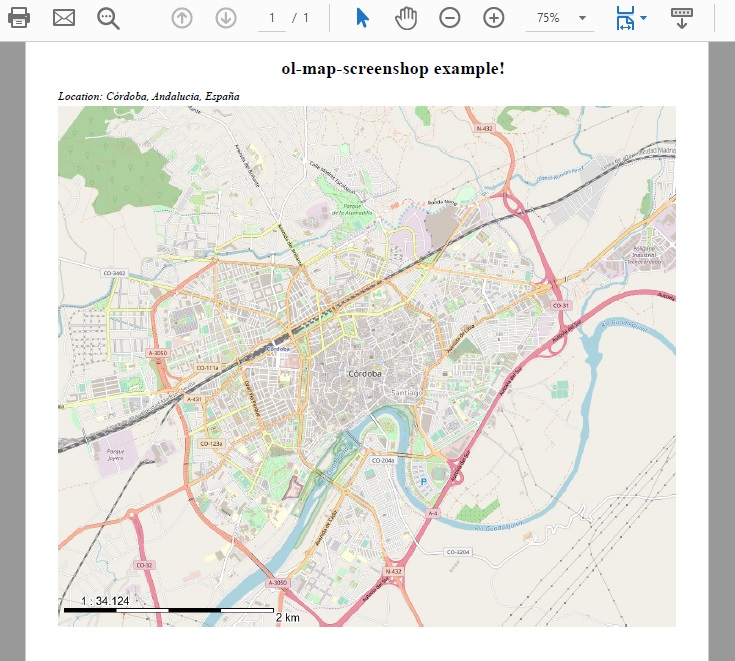
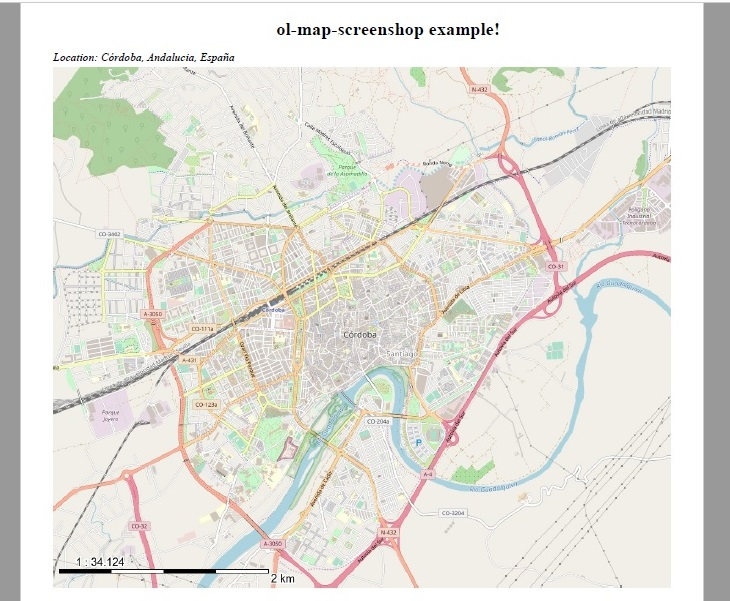
Remove required dim parameter

diff --git a/example/dist/example.22782844.js b/example/dist/example.22782844.js
@@ -412,11 +412,11 @@ var t,i=arguments[3];!function(i,n){"object"==typeof exports&&"undefined"!=typeo
 },{"./TileImage.js":"rQ5G","../tilegrid.js":"gNrJ"}],"hU9v":[function(require,module,exports) {
 "use strict";Object.defineProperty(exports,"__esModule",{value:!0}),exports.default=exports.ATTRIBUTION=void 0;var t=o(require("./XYZ.js"));function o(t){return t&&t.__esModule?t:{default:t}}var r=function(){var t=function(o,r){return(t=Object.setPrototypeOf||{__proto__:[]}instanceof Array&&function(t,o){t.__proto__=o}||function(t,o){for(var r in o)o.hasOwnProperty(r)&&(t[r]=o[r])})(o,r)};return function(o,r){function e(){this.constructor=o}t(o,r),o.prototype=null===r?Object.create(r):(e.prototype=r.prototype,new e)}}(),e='&#169; <a href="https://www.openstreetmap.org/copyright" target="_blank">OpenStreetMap</a> contributors.';exports.ATTRIBUTION=e;var n=function(t){function o(o){var r,n=o||{};r=void 0!==n.attributions?n.attributions:[e];var i=void 0!==n.crossOrigin?n.crossOrigin:"anonymous",a=void 0!==n.url?n.url:"https://{a-c}.tile.openstreetmap.org/{z}/{x}/{y}.png";return t.call(this,{attributions:r,cacheSize:n.cacheSize,crossOrigin:i,opaque:void 0===n.opaque||n.opaque,maxZoom:void 0!==n.maxZoom?n.maxZoom:19,reprojectionErrorThreshold:n.reprojectionErrorThreshold,tileLoadFunction:n.tileLoadFunction,url:a,wrapX:n.wrapX,attributionsCollapsible:!1})||this}return r(o,t),o}(t.default),i=n;exports.default=i;
 },{"./XYZ.js":"DGMa"}],"mvXz":[function(require,module,exports) {
-"use strict";Object.defineProperty(exports,"__esModule",{value:!0}),exports.default=void 0;var e=require("ol/control");const t="scale-line",a="scale-bar";class l{getImage(e){const t=e.map,a=document.createElement("canvas");a.width=e.widthPixel,a.height=e.heightPixel;const l=a.getContext("2d");Array.prototype.forEach.call(document.querySelectorAll(".ol-layer canvas"),e=>{if(e.width>0){const t=e.parentNode.style.opacity;l.globalAlpha=""===t?1:Number(t);const a=e.style.transform.match(/^matrix\(([^\(]*)\)$/)[1].split(",").map(Number);CanvasRenderingContext2D.prototype.setTransform.apply(l,a),l.drawImage(e,0,0)}});const r=this.createScaleMap(t,l,a,e.dinWidth,e.showDisplayScale);return{img:a.toDataURL(e.format),scaleBarValue:r.scaleBarValue,scaleLineValue:r.scaleLineValue}}addScaletoCanvas(e,t,a,l,r){const n="1 : "+l,i=2*parseInt(a,10);e.beginPath(),e.textAlign="left",e.strokeStyle="#ffffff",e.fillStyle="#000000",e.lineWidth=5,e.font="20px Arial",e.strokeText(n,40,t.height-30-10),e.fillText(n,40,t.height-30-10);var o=i+10,s=t.height-30,c=10+1*i/4,d=c+1*i/4,h=d+1*i/4,f=h+1*i/4;e.beginPath(),e.lineWidth=8,e.strokeStyle="#000000",e.fillStyle="#ffffff",e.moveTo(10,s),e.lineTo(o+1,s),e.stroke(),this.drawScaleBar(e,6,"#000000",10,s,c,s),this.drawScaleBar(e,6,"#FFFFFF",c,s,d,s),this.drawScaleBar(e,6,"#000000",d,s,h,s),this.drawScaleBar(e,6,"#FFFFFF",h,s,f,s),e.beginPath(),e.textAlign="left",e.strokeStyle="#ffffff",e.fillStyle="#000000",e.lineWidth=5,e.font="20px Arial",e.strokeText(r,f+5,s+20),e.fillText(r,f+5,s+20)}drawScaleBar(e,t,a,l,r,n,i){e.beginPath(),e.lineWidth=t,e.strokeStyle=a,e.moveTo(l,r),e.lineTo(n,i),e.stroke()}createScaleMap(e,l,r,n,i){this.createScaleContainer(),this._scaleLine=this.getScaleControl(!1,t),this._scaleBar=this.getScaleControl(!0,a),e.addControl(this._scaleLine),e.addControl(this._scaleBar),e.renderSync();const o=Math.round(this._scaleBar.getScaleForResolution()).toLocaleString(),s=document.getElementsByClassName("ol-scale-line-inner")[0].innerHTML;return i&&this.addScaletoCanvas(l,r,n,o,s),{scaleBarValue:o,scaleLineValue:s}}createScaleContainer(){const e=document.createElement("div");e.style.display="none";const l=document.createElement("div");l.setAttribute("id",a);const r=document.createElement("div");r.setAttribute("id",t),e.appendChild(l),e.appendChild(r),document.body.appendChild(e)}getScaleControl(t,a){return new e.ScaleLine({units:"metric",bar:t,steps:4,text:!0,minWidth:140,target:a})}}var r=new l;exports.default=r;
+"use strict";Object.defineProperty(exports,"__esModule",{value:!0}),exports.default=void 0;var e=require("ol/control");const t="scale-line",a="scale-bar";class l{getImage(e){const t=e.map,a=document.createElement("canvas");a.width=e.widthPixel,a.height=e.heightPixel;const l=a.getContext("2d");Array.prototype.forEach.call(document.querySelectorAll(".ol-layer canvas"),e=>{if(e.width>0){const t=e.parentNode.style.opacity;l.globalAlpha=""===t?1:Number(t);const a=e.style.transform.match(/^matrix\(([^\(]*)\)$/)[1].split(",").map(Number);CanvasRenderingContext2D.prototype.setTransform.apply(l,a),l.drawImage(e,0,0)}});const r=this.createScaleMap(t,l,a,e.scaleBarLength,e.showDisplayScale);return{img:a.toDataURL(e.format),scaleBarValue:r.scaleBarValue,scaleLineValue:r.scaleLineValue}}addScaletoCanvas(e,t,a,l,r){const n="1 : "+l,i=2*parseInt(a,10);e.beginPath(),e.textAlign="left",e.strokeStyle="#ffffff",e.fillStyle="#000000",e.lineWidth=5,e.font="20px Arial",e.strokeText(n,40,t.height-30-10),e.fillText(n,40,t.height-30-10);var o=i+10,s=t.height-30,c=10+1*i/4,d=c+1*i/4,h=d+1*i/4,f=h+1*i/4;e.beginPath(),e.lineWidth=8,e.strokeStyle="#000000",e.fillStyle="#ffffff",e.moveTo(10,s),e.lineTo(o+1,s),e.stroke(),this.drawScaleBar(e,6,"#000000",10,s,c,s),this.drawScaleBar(e,6,"#FFFFFF",c,s,d,s),this.drawScaleBar(e,6,"#000000",d,s,h,s),this.drawScaleBar(e,6,"#FFFFFF",h,s,f,s),e.beginPath(),e.textAlign="left",e.strokeStyle="#ffffff",e.fillStyle="#000000",e.lineWidth=5,e.font="20px Arial",e.strokeText(r,f+5,s+20),e.fillText(r,f+5,s+20)}drawScaleBar(e,t,a,l,r,n,i){e.beginPath(),e.lineWidth=t,e.strokeStyle=a,e.moveTo(l,r),e.lineTo(n,i),e.stroke()}createScaleMap(e,l,r,n,i){this.createScaleContainer(),this._scaleLine=this.getScaleControl(!1,t),this._scaleBar=this.getScaleControl(!0,a),e.addControl(this._scaleLine),e.addControl(this._scaleBar),e.renderSync();const o=Math.round(this._scaleBar.getScaleForResolution()).toLocaleString(),s=document.getElementsByClassName("ol-scale-line-inner")[0].innerHTML;return i&&this.addScaletoCanvas(l,r,n,o,s),{scaleBarValue:o,scaleLineValue:s}}createScaleContainer(){const e=document.createElement("div");e.style.display="none";const l=document.createElement("div");l.setAttribute("id",a);const r=document.createElement("div");r.setAttribute("id",t),e.appendChild(l),e.appendChild(r),document.body.appendChild(e)}getScaleControl(t,a){return new e.ScaleLine({units:"metric",bar:t,steps:4,text:!0,minWidth:140,target:a})}}var r=new l;exports.default=r;
 },{"ol/control":"bioX"}],"ceZG":[function(require,module,exports) {
-"use strict";Object.defineProperty(exports,"__esModule",{value:!0}),exports.default=void 0;var e=t(require("./MapImageRenderer"));function t(e){return e&&e.__esModule?e:{default:e}}const i=25.4,a=150;class r{async getScreenshot(t,i){const a=new Promise((a,r)=>{const n=this.getOptions(t,i);n.validation&&r(n.validation),this.setResolutionAndSize(t,n.widthPixel,n.heightPixel),t.once("rendercomplete",async()=>{const t=e.default.getImage(n);a({img:t.img,w:i.dim[0],h:i.dim[1],wPixel:n.widthPixel,hPixel:n.heightPixel,scaleBarValue:t.scaleBarValue,scaleLineValue:t.scaleLineValue})})});return t.renderSync(),a}setResolutionAndSize(e,t,i){var a=[t,i];e.setSize(a);var r=e.getSize(),n=Math.min(t/r[0],i/r[1]),o=e.getView().getResolution();e.getView().setResolution(o/n)}getOptions(e,t){if(!t.dim)return{validation:"The dim parameter is required."};if(!(t.dim instanceof Array))return{validation:"The dim parameter must be an array."};if(2!==t.dim.length)return{validation:"The dim parameter must be an array of two elements [width x height]"};let r=a;t.resolution&&(r=t.resolution);const n=Math.round(t.dim[0]*r/i),o=Math.round(t.dim[1]*r/i);let s="image/jpeg";return t.format&&(s="PNG"===t.format.toLowerCase()?"image/png":s),{map:e,widthPixel:n,heightPixel:o,dinWidth:t.dim[0],format:s,showDisplayScale:t.showDisplayScale}}}var n=new r;exports.default=n;
+"use strict";Object.defineProperty(exports,"__esModule",{value:!0}),exports.default=void 0;var e=t(require("./MapImageRenderer"));function t(e){return e&&e.__esModule?e:{default:e}}const i=25.4,a=150;class r{async getScreenshot(t,i){const a=new Promise((a,r)=>{const n=this.getOptions(t,i);if(n.validation)return void r({message:n.validation});const s=t.getSize();this.setResolutionAndSize(t,n.widthPixel,n.heightPixel),t.once("rendercomplete",async()=>{const i=e.default.getImage(n);t.setSize(s),a({img:i.img,w:n.w,h:n.h,wPixel:n.widthPixel,hPixel:n.heightPixel,scaleBarValue:i.scaleBarValue,scaleLineValue:i.scaleLineValue})})});return t.renderSync(),a}setResolutionAndSize(e,t,i){var a=[t,i];e.setSize(a);var r=e.getSize(),n=Math.min(t/r[0],i/r[1]),s=e.getView().getResolution();e.getView().setResolution(s/n)}getOptions(e,t){const r=e.getSize();let n=r[0],s=r[1],o=(t=t||{}).scaleBarLength?parseInt(t.scaleBarLength):140,l=a;t.resolution&&(l=t.resolution);let d=Math.round(n/l*i),h=Math.round(s/l*i);if(t.dim){if(!(t.dim instanceof Array))return{validation:"The dim parameter must be an array."};if(2!==t.dim.length)return{validation:"The dim parameter must be an array of two elements [width x height]"};n=Math.round(t.dim[0]*l/i),s=Math.round(t.dim[1]*l/i),d=t.dim[0],h=t.dim[1]}let u="image/jpeg";return t.format&&(u="PNG"===t.format.toLowerCase()?"image/png":u),{map:e,w:d,h:h,widthPixel:n,heightPixel:s,scaleBarLength:o,format:u,showDisplayScale:void 0===t.showDisplayScale||t.showDisplayScale}}}var n=new r;exports.default=n;
 },{"./MapImageRenderer":"mvXz"}],"S3PC":[function(require,module,exports) {
 "use strict";Object.defineProperty(exports,"__esModule",{value:!0}),Object.defineProperty(exports,"default",{enumerable:!0,get:function(){return e.default}});var e=r(require("./src/MapExporter"));function r(e){return e&&e.__esModule?e:{default:e}}
 },{"./src/MapExporter":"ceZG"}],"Focm":[function(require,module,exports) {
-"use strict";require("ol/ol.css");var e=s(require("ol/Map")),t=s(require("ol/View")),n=s(require("ol/layer/Tile")),o=s(require("ol/source/OSM")),a=s(require("../index"));function s(e){return e&&e.__esModule?e:{default:e}}const c=new e.default({layers:[new n.default({source:new o.default})],target:"map",view:new t.default({center:[-531626.1241455,4563250.0861921],zoom:14})}),i={dim:[190,160],showDisplayScale:!0};function l(e){const t=new jsPDF("p","mm","a4");t.setFont("times"),t.setFontSize(16),t.setFontStyle("bold");const n="ol-map-screenshop example!",o=t.internal.pageSize.width,a=t.getTextDimensions(n).w/2.8125+2;t.text(o/2-a,20,n),t.setFontSize(10),t.setFontStyle("italic"),t.text(10,28,"Location: Córdoba, Andalucia, España"),t.addImage(e.img,"JPEG",10,30,e.w,e.h),t.save("map-screenshot.pdf")}async function r(e){u(!0);const t=await d(),n=document.createElement("a");n.setAttribute("href",t.img),n.setAttribute("download",e),n.style.display="none",document.body.appendChild(n),n.click(),document.body.removeChild(n),u(!1)}async function d(){const e=c.getSize(),t=await a.default.getScreenshot(c,i);return c.setSize(e),t}function u(e){const t=document.getElementById("loader");t.style.display=e?"block":"none"}document.getElementById("export-jpeg-button").onclick=(async()=>{r("map-screenshot.jpg")}),document.getElementById("export-png-button").onclick=(async()=>{i.format="png",r("map-screenshot.png")}),document.getElementById("export-pdf-button").onclick=(async()=>{u(!0),i.format="jpeg",l(await d()),u(!1)});
+"use strict";require("ol/ol.css");var e=c(require("ol/Map")),t=c(require("ol/View")),n=c(require("ol/layer/Tile")),o=c(require("ol/source/OSM")),a=c(require("../index"));function c(e){return e&&e.__esModule?e:{default:e}}const s=new e.default({layers:[new n.default({source:new o.default})],target:"map",view:new t.default({center:[-531626.1241455,4563250.0861921],zoom:14})}),i={dim:[190,160]};function r(e){const t=new jsPDF("p","mm","a4");t.setFont("times"),t.setFontSize(16),t.setFontStyle("bold");const n="ol-map-screenshop example!",o=t.internal.pageSize.width,a=t.getTextDimensions(n).w/2.8125+2;t.text(o/2-a,20,n),t.setFontSize(10),t.setFontStyle("italic"),t.text(10,28,"Location: Córdoba, Andalucia, España"),t.addImage(e.img,"JPEG",10,30,e.w,e.h),t.save("map-screenshot.pdf")}async function l(e){u(!0);const t=await d(),n=document.createElement("a");n.setAttribute("href",t.img),n.setAttribute("download",e),n.style.display="none",document.body.appendChild(n),n.click(),document.body.removeChild(n),u(!1)}async function d(){try{return await a.default.getScreenshot(s,i)}catch(e){u(!1),alert(e.message)}}function u(e){const t=document.getElementById("loader");t.style.display=e?"block":"none"}document.getElementById("export-jpeg-button").onclick=(async()=>{l("map-screenshot.jpg")}),document.getElementById("export-png-button").onclick=(async()=>{i.format="png",l("map-screenshot.png")}),document.getElementById("export-pdf-button").onclick=(async()=>{u(!0),i.format="jpeg",r(await d()),u(!1)});
 },{"ol/ol.css":"vFY1","ol/Map":"ZXtR","ol/View":"rXL1","ol/layer/Tile":"PqrZ","ol/source/OSM":"hU9v","../index":"S3PC"}]},{},["Focm"], null)

diff --git a/src/MapExporter.js b/src/MapExporter.js
@@ -7,20 +7,23 @@ const DEFAULT_RESOLUTION = 150; //dpi
 class MapExporter {
 
     async getScreenshot(map, param) {
-
         const promise = new Promise((resolve, reject) => {
             const options = this.getOptions(map, param);
-            if (options.validation)
-                reject(options.validation);
+            if (options.validation) {
+                reject({ message: options.validation });
+                return;
+            }
 
+            const mapCurrentSize = map.getSize();
             this.setResolutionAndSize(map, options.widthPixel, options.heightPixel);
 
             map.once('rendercomplete', async() => {
                 const mapImage = mapImageRenderer.getImage(options);
+                map.setSize(mapCurrentSize);
                 resolve({
                     img: mapImage.img,
-                    w: param.dim[0],
-                    h: param.dim[1],
+                    w: options.w,
+                    h: options.h,
                     wPixel: options.widthPixel,
                     hPixel: options.heightPixel,
                     scaleBarValue: mapImage.scaleBarValue,
@@ -43,21 +46,29 @@ class MapExporter {
     }
 
     getOptions(map, param) {
-        if (!param.dim)
-            return { validation: "The dim parameter is required." }
-
-        if (!(param.dim instanceof Array))
-            return { validation: "The dim parameter must be an array." }
-
-        if (param.dim.length !== 2)
-            return { validation: "The dim parameter must be an array of two elements [width x height]" }
-
+        const size = map.getSize();
+        let widthPixel = size[0];
+        let heightPixel = size[1];
+        param = param ? param : {};
+        let scaleBarLength = param.scaleBarLength ? parseInt(param.scaleBarLength) : 140;
         let resolution = DEFAULT_RESOLUTION;
         if (param.resolution)
             resolution = param.resolution;
+        let w = Math.round(widthPixel / resolution * MM_x_DPI);
+        let h = Math.round(heightPixel / resolution * MM_x_DPI);
 
-        const widthPixel = Math.round(param.dim[0] * resolution / MM_x_DPI);
-        const heightPixel = Math.round(param.dim[1] * resolution / MM_x_DPI);
+        if (param.dim) {
+            if (!(param.dim instanceof Array))
+                return { validation: "The dim parameter must be an array." }
+
+            if (param.dim.length !== 2)
+                return { validation: "The dim parameter must be an array of two elements [width x height]" }
+
+            widthPixel = Math.round(param.dim[0] * resolution / MM_x_DPI);
+            heightPixel = Math.round(param.dim[1] * resolution / MM_x_DPI);
+            w = param.dim[0];
+            h = param.dim[1];
+        }
 
         let format = 'image/jpeg';
         if (param.format)
@@ -65,11 +76,13 @@ class MapExporter {
 
         return {
             map: map,
+            w: w,
+            h: h,
             widthPixel: widthPixel,
             heightPixel: heightPixel,
-            dinWidth: param.dim[0],
+            scaleBarLength: scaleBarLength,
             format: format,
-            showDisplayScale: param.showDisplayScale
+            showDisplayScale: param.showDisplayScale === undefined ? true : param.showDisplayScale
         };
     }
 }

diff --git a/example/dist/index.html b/example/dist/index.html
@@ -44,8 +44,7 @@ const map = new Map({
 });
                     
 const mapScreenshotParam = {
-    dim: [190, 160],
-    showDisplayScale: true
+    dim: [190, 160]
 };
                     
 document.getElementById('export-jpeg-button').onclick = async() => {
@@ -91,10 +90,12 @@ async function doDonwload(fileName) {
 }
                     
 async function doScreenshot() {
-    const mapCurrentSize = map.getSize();
-    const response = await olMapScreenshot.getScreenshot(map, mapScreenshotParam);
-    map.setSize(mapCurrentSize);
-    return response;
+    try {
+        return await olMapScreenshot.getScreenshot(map, mapScreenshotParam);
+    } catch (ex) {
+        showloader(false);
+        alert(ex.message);
+    }
 }
-</code></pre></div> </div> <script src="jquery-3.4.1.slim.min.eaa7fef5.js"></script> <script src="popper.min.54f91930.js"></script> <script src="bootstrap.min.3f4c8f68.js"></script> <script src="prism.min.f56599be.js"></script> <script src="https://cdnjs.cloudflare.com/ajax/libs/jspdf/1.5.3/jspdf.min.js"></script> <script src="example.99c5c007.js"></script>
+</code></pre></div> </div> <script src="jquery-3.4.1.slim.min.eaa7fef5.js"></script> <script src="popper.min.54f91930.js"></script> <script src="bootstrap.min.3f4c8f68.js"></script> <script src="prism.min.f56599be.js"></script> <script src="https://cdnjs.cloudflare.com/ajax/libs/jspdf/1.5.3/jspdf.min.js"></script> <script src="example.22782844.js"></script>
 </body></html>

diff --git a/src/MapImageRenderer.js b/src/MapImageRenderer.js
@@ -22,13 +22,13 @@ class MapImageRenderer {
             }
         });
 
-        const scaleInfo = this.createScaleMap(map, mapContext, mapCanvas, param.dinWidth, param.showDisplayScale);
+        const scaleInfo = this.createScaleMap(map, mapContext, mapCanvas, param.scaleBarLength, param.showDisplayScale);
         const mapImage = { img: mapCanvas.toDataURL(param.format), scaleBarValue: scaleInfo.scaleBarValue, scaleLineValue: scaleInfo.scaleLineValue };
 
         return mapImage;
     }
 
-    addScaletoCanvas(ctx, canvas, dinWidth, scaleBarValue, scaleLineValue) {
+    addScaletoCanvas(ctx, canvas, scaleBarLength, scaleBarValue, scaleLineValue) {
         const scaleBarValueFormat = '1 : ' + scaleBarValue;
         const line = 6;
         //Offset from the left
@@ -39,7 +39,7 @@ class MapImageRenderer {
         const font = fontsize1 + 'px Arial';
         // how big should the scale be (original css-width multiplied)
         const multiplier = 2;
-        const scalewidth = parseInt(dinWidth, 10) * multiplier;
+        const scalewidth = parseInt(scaleBarLength, 10) * multiplier;
 
         //Scale Text
         ctx.beginPath();

diff --git a/example/index.html b/example/index.html
@@ -103,8 +103,7 @@ const map = new Map({
 });
                     
 const mapScreenshotParam = {
-    dim: [190, 160],
-    showDisplayScale: true
+    dim: [190, 160]
 };
                     
 document.getElementById('export-jpeg-button').onclick = async() => {
@@ -150,10 +149,12 @@ async function doDonwload(fileName) {
 }
                     
 async function doScreenshot() {
-    const mapCurrentSize = map.getSize();
-    const response = await olMapScreenshot.getScreenshot(map, mapScreenshotParam);
-    map.setSize(mapCurrentSize);
-    return response;
+    try {
+        return await olMapScreenshot.getScreenshot(map, mapScreenshotParam);
+    } catch (ex) {
+        showloader(false);
+        alert(ex.message);
+    }
 }
 </code></pre></div>
 

diff --git a/example/index.js b/example/index.js
@@ -19,8 +19,7 @@ const map = new Map({
 });
 
 const mapScreenshotParam = {
-    dim: [190, 160],
-    showDisplayScale: true
+    dim: [190, 160]
 };
 
 document.getElementById('export-jpeg-button').onclick = async() => {
@@ -70,10 +69,12 @@ async function doDonwload(fileName) {
 }
 
 async function doScreenshot() {
-    const mapCurrentSize = map.getSize();
-    const response = await olMapScreenshot.getScreenshot(map, mapScreenshotParam);
-    map.setSize(mapCurrentSize);
-    return response;
+    try {
+        return await olMapScreenshot.getScreenshot(map, mapScreenshotParam);
+    } catch (ex) {
+        showloader(false);
+        alert(ex.message);
+    }
 }
 
 function showloader(visible) {

diff --git a/README.md b/README.md
@@ -13,7 +13,7 @@ Currently, **ol-map-screenshot requires OpenLayers version 6.x**.
   - Map scale bar rendering in the screenshot.
   - Screenshot metadata provided in the response.
   
-## Usage ##
+## Basic usage ##
 Install the ol-map-screenshot package using npm:
 
     npm i ol-map-screenshot
@@ -22,22 +22,32 @@ To use the library just import it into the application:
 
 ```js
 import olMapScreenshot from 'ol-map-screenshot';
-...
-const mapScreenshotParam = {
-    dim: [190, 160]
-};
 
-const response = await olMapScreenshot.getScreenshot(map, mapScreenshotParam);
+const response = await olMapScreenshot.getScreenshot(map);
 //response is JSON object. response.img will store the image in base 64
 ...
+```
+By default, the screenshot is the map size.
+
+## Option usage ##
+Parameters can be specified to customize map screenshot:
+```js
+import olMapScreenshot from 'ol-map-screenshot';
+
+const response = await olMapScreenshot.getScreenshot(map, {
+    dim: [190, 160], 
+    scaleBarLength: 100
+});
+
 ```
 
 ## Screenshot parameters JSON object ##
 
 | name | value | Required | Description |
 | --- | --- | --- | --- |
-| `dim` | array | Y | Desired image size in **mm** [width, height]. |
-| `showDisplayScale` | boolean | N | Map scale bar is displayed. Default is **false** |
+| `dim` | array | N | Desired image size in **mm** [width, height]. |
+| `showDisplayScale` | boolean | N | Map scale bar is displayed. Default is **true** |
+| `scaleBarLength` | number | N | Map scale bar length. Default is **140 px** |
 | `format` | 'png' | N | Export format of the image. Default is **'jpeg'** |
 | `resolution` | number | N | Screen resolution. Default is **150 dpi** |
 
@@ -81,8 +91,7 @@ const map = new Map({
 });
 
 const mapScreenshotParam = {
-    dim: [190, 160],
-    showDisplayScale: true
+    dim: [190, 160]
 };
 
 document.getElementById('export-jpeg-button').onclick = async() => {
@@ -128,10 +137,12 @@ async function doDonwload(fileName) {
 }
 
 async function doScreenshot() {
-    const mapCurrentSize = map.getSize();
-    const response = await olMapScreenshot.getScreenshot(map, mapScreenshotParam);
-    map.setSize(mapCurrentSize);
-    return response;
+    try {
+        return await olMapScreenshot.getScreenshot(map, mapScreenshotParam);
+    } catch (ex) {
+        showloader(false);
+        alert(ex.message);
+    }
 }
 ```
 ## Contributing ##
